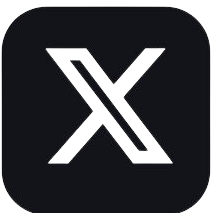
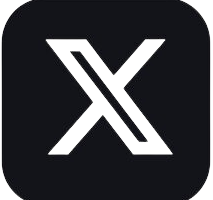
add image for message and value survice

diff --git a/index.html b/index.html
@@ -67,17 +67,28 @@
             </div>
 
         </div>
-        <div id="3">
-            <h3>رسالتنا</h3>
-            <p>تقديم حلول مالية متكاملة مبنية علي تحليل مالي دقيق لدعم نجاح عملائنا.</p>
+        <div id="3" class="message">
+            <div>
+                <h3>رسالتنا</h3>
+                <p>تقديم حلول مالية متكاملة مبنية علي تحليل مالي دقيق لدعم نجاح عملائنا.</p>
+            </div>
+            <div>
+                <img src="images/message.jpeg" alt="">
+            </div>
         </div>
-        <div id="4">
-            <h3>قيمنا</h3>
-            <div class="list_2">
-                <li>المصداقية.</li>
-                <li>الاحترافية.</li>
-                <li>السرية التامة.</li>
-                <li>الابتكار الدائم.</li>
+        <div id="4" class="value">
+            <div>
+                <h3>قيمنا</h3>
+                <div class="list_2">
+                    <li>المصداقية.</li>
+                    <li>الاحترافية.</li>
+                    <li>السرية التامة.</li>
+                    <li>الابتكار الدائم.</li>
+                </div>
+
+            </div>
+            <div>
+                <img src="images/value.jpeg" alt="">
             </div>
         </div>
         <div id="5">

diff --git a/CSS/index.css b/CSS/index.css
@@ -202,12 +202,12 @@ span img{
   .list_1, .list_2, .list_4, .list_5{
     margin-right: 5%;
   }
-  .see{
+  .see, .message, .value{
     display: flex;
     justify-content: space-between;
     align-items: center;
   }
-  .see img{
+  .see img, .message img, .value img{
     width: 100px;
     height: 100px;
     margin-top: 25%;
